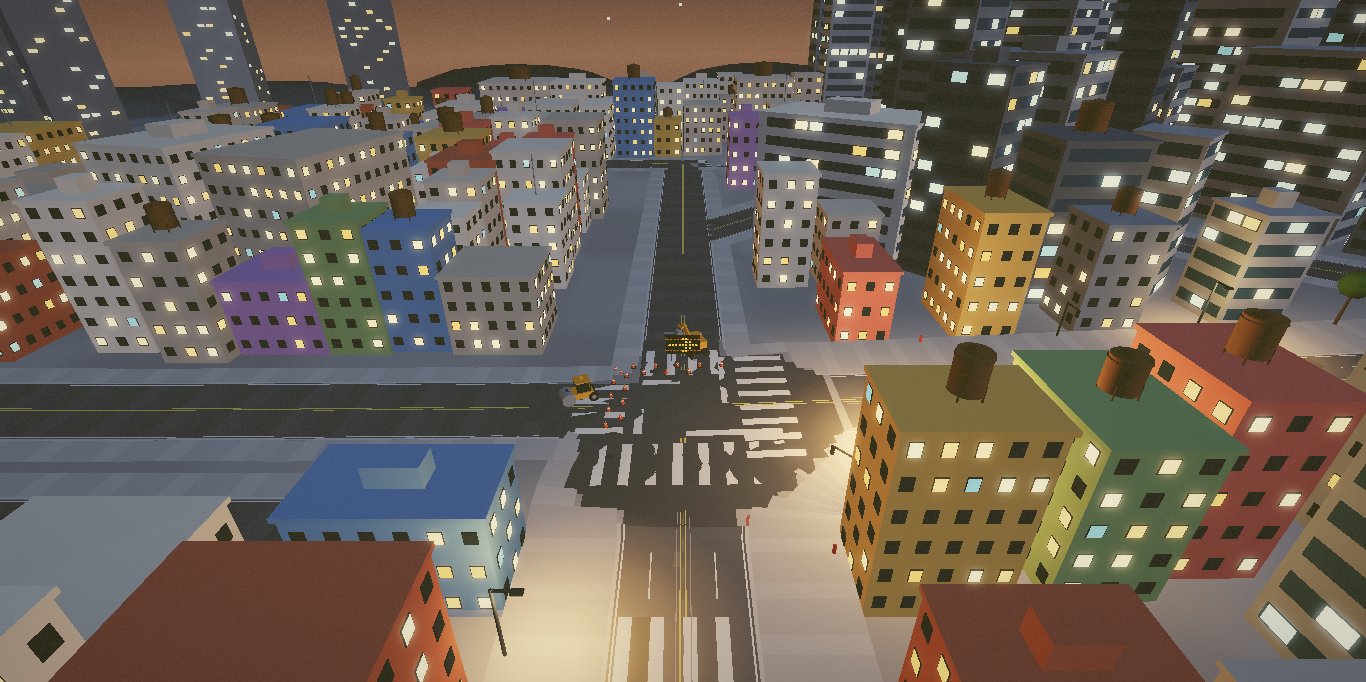
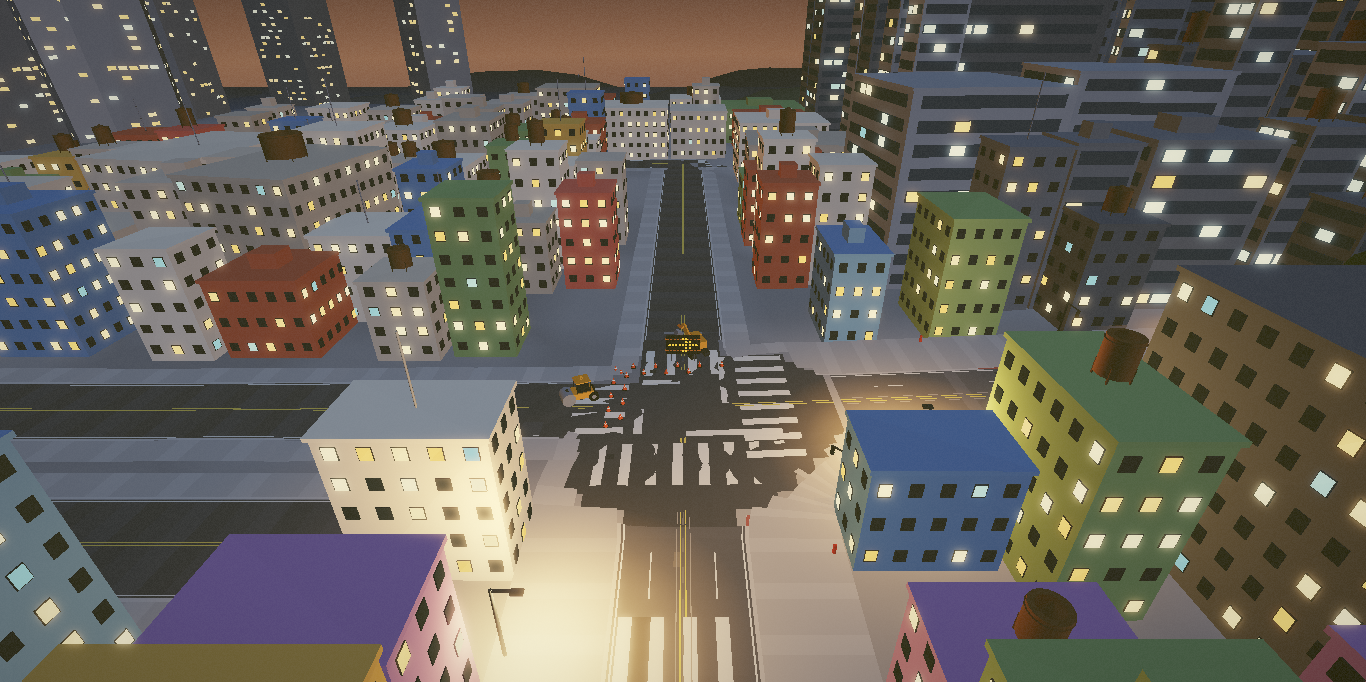
REDLINE: side streets leave squarely, and nothing is left without windows
At a shallow corner "straight on" continues the leg you arrived down, and
diverges so slowly it sits eleven metres off the kerb for a hundred metres
— a second carriageway beside the racing line rather than a fork. Below
sixty degrees it is no longer offered; those corners take the outward
bisector instead, which leaves at about seventy degrees. The closest any
side street now runs is nineteen metres, square to the road.

The pyramid downtown, its two pylons and the waterfront sheds were the
last things built as plain boxes. They have windows now.

diff --git a/redline/src/track.js b/redline/src/track.js
@@ -1570,18 +1570,30 @@ export class Track {
     //
     // The way straight on, and the way back off the other side. Those two plus
     // the two the circuit uses make the crossroads.
+    const SQUARE = 1.05;                 // sixty degrees, in radians
     for (const c of this.corners) {
       corner = c;
-      // Straight on is the one a driver arriving at the corner is looking at.
-      ahead = true;
-      let any = add(c.x, c.z, c.u1x, c.u1z);
-      ahead = false;
-      any = add(c.x, c.z, -c.u2x, -c.u2z) || any;
+      let any = false;
+      // Straight on, and back off the far side — but only at a corner square
+      // enough for them to go anywhere.
+      //
+      // "Straight on" continues the leg you arrived down, by construction. At
+      // a right angle the course leaves at ninety degrees and the two separate
+      // immediately; at forty-one degrees they diverge so slowly that the side
+      // street sits eleven metres off the kerb for a hundred metres, which
+      // does not read as a fork, it reads as a second carriageway laid beside
+      // the racing line. No amount of clearance-walking fixes that, because
+      // the street is not running into anything — it is just running alongside.
+      // So at the shallow corners these two are not offered at all.
+      if (Math.abs(c.turn) > SQUARE) {
+        ahead = true;
+        any = add(c.x, c.z, c.u1x, c.u1z);
+        ahead = false;
+        any = add(c.x, c.z, -c.u2x, -c.u2z) || any;
+      }
 
-      // A corner with no street off it at all looks wrong, and the shallow
-      // ones end up that way: both the obvious directions — straight on, and
-      // back off the far side — lie too nearly along the circuit for a street
-      // to go anywhere but alongside it, so both get refused.
+      // Which leaves the shallow corners with nothing, and a corner with no
+      // street off it looks wrong.
       //
       // The way out is the OUTWARD BISECTOR, `u1 - u2`, which points away from
       // the centre of the turn. For a forty-one degree corner that is about
@@ -2489,8 +2501,33 @@ export class Track {
       const py = this.groundAt(px, pz);
       b.add(G.cyl(0.5, 15, 190, 4), 0xd0cec6, { x: px, y: py + 95, z: pz, ry: Math.PI / 4 });
       b.add(G.cyl(0.2, 1.6, 26, 4), 0xd0cec6, { x: px, y: py + 200, z: pz, ry: Math.PI / 4 });
+      // Floors up the pyramid, narrowing as it does.
+      //
+      // It was a blank white spike, and the two pylons beside it blank white
+      // slabs — the last things in the place built without windows, and a
+      // hundred and ninety metres of blank wall is not something you fail to
+      // notice at the end of a street. The bands are sized to the section at
+      // each height, and doubled so they stand proud of all four faces.
+      {
+        const FLOORS = 42;
+        for (let k = 1; k < FLOORS; k++) {
+          const t = k / FLOORS;
+          const r = lerp(15, 0.5, t) * 0.98;
+          const y = py + t * 190;
+          b.add(G.box(r * 2, 2.2, r * 2 + 0.12), 0x3a4550, { x: px, y, z: pz, ry: Math.PI / 4 });
+          b.add(G.box(r * 2 + 0.12, 2.2, r * 2), 0x3a4550, { x: px, y, z: pz, ry: Math.PI / 4 });
+          if (Math.random() < 0.55) {
+            const c2 = pick([0xffd9a0, 0xd8e8f0, 0xffc478]);
+            b.add(G.box(r * 1.5, 1.5, r * 2 + 0.2), c2, { x: px, y, z: pz, ry: Math.PI / 4 });
+            b.add(G.box(r * 2 + 0.2, 1.5, r * 1.5), c2, { x: px, y, z: pz, ry: Math.PI / 4 });
+          }
+        }
+      }
       for (const sx of [-1, 1]) {
-        b.add(G.box(7, 62, 7), 0xc4c2ba, { x: px + sx * 13, y: py + 62, z: pz, ry: Math.PI / 4 });
+        const bx = px + sx * 13;
+        b.add(G.box(7, 62, 7), 0xc4c2ba, { x: bx, y: py + 62, z: pz, ry: Math.PI / 4 });
+        floorsOn(bx, pz, py + 31, 7, 7, 62, Math.PI / 4);
+        floorsOn(bx, pz, py + 31, 7, 7, 62, Math.PI * 0.75);
       }
       for (let i = 0, tries = 0; i < 16 && tries < 300; tries++) {
         const a = rand(0, Math.PI * 2), d = rand(60, 260);

diff --git a/redline/src/selftest.js b/redline/src/selftest.js
@@ -589,6 +589,24 @@ function checkSideStreets(track) {
   // Every corner must be signed, whether or not it has a side street to hang
   // the board on. The shallow ones have no street — the sign is the part that
   // matters, and losing the street must not lose the sign.
+  // And none of them may run alongside the circuit. "Straight on" at a corner
+  // continues the leg you arrived down, so at a shallow bend it separates from
+  // the course so slowly that it sits a few metres off the kerb for a hundred
+  // metres — a second carriageway beside the racing line rather than a fork.
+  let hug = Infinity, hugPar = 0;
+  for (const t of track.stubs) {
+    for (let d = 26; d < t.len; d += 4) {
+      const x = t.x + t.ux * d, z = t.z + t.uz * d;
+      const loc = track.locate(x, z);
+      const gap = Math.abs(loc.lateral) - loc.width / 2;
+      if (gap < hug) {
+        hug = gap;
+        hugPar = Math.abs(t.ux * loc.sample.dirX + t.uz * loc.sample.dirZ);
+      }
+    }
+  }
+  if (hug < 16) bad.push(`one running ${hug.toFixed(0)} m off the kerb`);
+
   // How many corners have a street off them at all — the thing that makes a
   // corner read as a junction rather than as a bend with a sign beside it.
   let withStreet = 0;
@@ -613,7 +631,8 @@ function checkSideStreets(track) {
     `${track.stubs.length} of them, ${blocked} blockaded, ${teed} Teeing into a cross street, ` +
     `${withStreet}/${track.corners.length} corners with a street off them` +
     `${bare.length ? ` (bare at ${bare.join(' ')})` : ''}, ` +
-    `${signedCorners} signed, ${corners} curb returns, ` +
+    `${signedCorners} signed, closest runs ${hug.toFixed(0)} m off the kerb ` +
+    `at ${hugPar.toFixed(2)} parallel, ${corners} curb returns, ` +
     `beacons ${lit ? 'flashing' : 'DEAD'}`;
 }
 
@@ -1230,6 +1249,15 @@ function dumpFrames(game) {
           [sign.x + t.ux * 5, y + 2.2, sign.z + t.uz * 5], 44);
       }
     }
+  }
+
+  // Straight down the longest side street from the circuit — which is the
+  // view that shows whatever is standing behind it.
+  {
+    const t = track.stubs.reduce((best, q) => (q.len > best.len ? q : best), track.stubs[0]);
+    const y = track.locate(t.x, t.z).y;
+    shot('down-stub', [t.x - t.ux * 18, y + 2.2, t.z - t.uz * 18],
+      [t.x + t.ux * 200, y + 34, t.z + t.uz * 200], 50);
   }
 
   // The far end of a side street, where it Ts into a cross street. What is

diff --git a/redline/README.md b/redline/README.md
@@ -343,22 +343,30 @@ wall that keeps them on the road, and were shoved by the side street's own
 walls instead. Twelve of sixteen finished that race stranded. The smoke test
 now asserts the wall is unbroken across every mouth.
 
-**Every corner gets one, including the shallow ones.** The two obvious
-directions off a corner are straight on and back off the far side, and at a
-forty-five degree bend both of those lie too nearly along the circuit for a
-street to go anywhere but beside it — so both get refused and the corner is
-left as a bend with a sign next to it. The way out is the **outward bisector**,
-`u1 - u2`, which points away from the centre of the turn: about seventy degrees
-off the road at a forty-one degree corner, which is what a fork in a real
-street looks like and far enough across for the street to leave.
+**Every corner gets one, including the shallow ones — but not straight on.**
+"Straight on" continues the leg you arrived down, by construction. At a right
+angle the course leaves at ninety degrees and the two separate immediately; at
+forty-one degrees they diverge so slowly that the side street sits eleven
+metres off the kerb for a hundred metres, which does not read as a fork, it
+reads as a second carriageway laid beside the racing line. No amount of
+clearance-checking fixes that, because the street is not running *into*
+anything — it is just running alongside. So below sixty degrees, straight on
+and back-off-the-far-side are not offered at all.
 
-That still did not work at first, for a reason worth recording. The walk that
-decides how far a street runs measures clearance against the circuit — and the
-junction it is leaving *is* the circuit. At a shallow corner a street heading
-out at sixty-five degrees is still only seventeen metres from that corner's own
-kerb twenty-six metres along, so every one of them was refused against the very
-junction it belonged to. The walk now ignores circuit within forty-six metres
-of where the street starts.
+What is offered instead is the **outward bisector**, `u1 - u2`, which points
+away from the centre of the turn: about seventy degrees off the road at a
+forty-one degree corner, which is what a fork in a real street looks like and
+steep enough for the street to actually leave. Every corner ends up with a
+street, and the closest any of them now runs to the racing line is nineteen
+metres, at four hundredths of parallel — which is to say, square to it.
+
+One trap on the way. The walk that decides how far a street runs measures
+clearance against the circuit — and the junction it is leaving *is* circuit, so
+the shallow corners were refusing streets against the very junction they
+belonged to. The walk ignores circuit within forty-six metres of where the
+street starts. That fix is necessary and was not sufficient: it let a street
+hug the road for its first forty-six metres, which is exactly the stretch you
+see from the car.
 
 **And they have to go somewhere else.** The walk that decides how far a side
 street runs stops it short of any other part of the circuit, and that clearance
@@ -446,6 +454,12 @@ pavement actually *is*, is the ground that no road covers, and that is not
 knowable until every road is down. So it is a separate pass that runs last,
 emits tiles, and drops any tile whose middle is on tarmac or inside a curb
 return.
+
+**Everything has windows**, including the things that are not really
+buildings: the waterfront sheds, the pyramid downtown and the two pylons beside
+it. Those were the last plain boxes in the place, and a hundred and ninety
+metres of blank wall at the end of a street is not something you fail to
+notice.
 
 **Windows go on all four faces**, which they did not while every building was
 a narrow frontage seen from the street it fronts. The moment the city was
